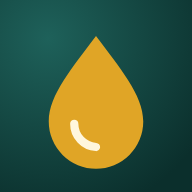
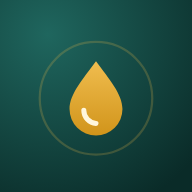
Nama aplikasi jadi Minyak Andre; ikon tetes minyak diperkecil

diff --git a/index.html b/index.html
@@ -5,10 +5,12 @@
 <meta name="viewport" content="width=device-width, initial-scale=1, viewport-fit=cover">
 <meta name="robots" content="noindex, nofollow">
 <meta name="theme-color" content="#0f3d3a">
-<title>Absensi & Gaji</title>
+<title>Minyak Andre</title>
 <link rel="manifest" href="manifest.json">
-<link rel="icon" href="ikon.svg" type="image/svg+xml">
-<link rel="apple-touch-icon" href="ikon-192.png">
+<link rel="icon" href="ikon.svg?v=2" type="image/svg+xml">
+<link rel="apple-touch-icon" href="ikon-192.png?v=2">
+<meta name="apple-mobile-web-app-title" content="Minyak Andre">
+<meta name="application-name" content="Minyak Andre">
 <link rel="preconnect" href="https://fonts.googleapis.com">
 <link rel="preconnect" href="https://fonts.gstatic.com" crossorigin>
 <link rel="stylesheet" href="https://fonts.googleapis.com/css2?family=Fraunces:opsz,wght@9..144,500;9..144,600&family=Plus+Jakarta+Sans:wght@400;500;600;700&display=swap">
@@ -223,7 +225,7 @@ function layarMasuk(pesan) {
   const pemilik = k === 'pemilik';
   akar.innerHTML = `<main class="masuk"><form class="masuk-kartu" id="fMasuk" autocomplete="off">
     <div class="tetes" aria-hidden="true"><svg width="30" height="30" viewBox="0 0 24 24"><path d="M12 2.5c3.2 4.3 6.5 8 6.5 11.7a6.5 6.5 0 0 1-13 0C5.5 10.5 8.8 6.8 12 2.5z" fill="#d59a1c"/><path d="M9 14.5a3.2 3.2 0 0 0 3 3.2" fill="none" stroke="#fff" stroke-width="1.6" stroke-linecap="round"/></svg></div>
-    <div class="label">Usaha Minyak</div><h1>Absensi & Gaji</h1>
+    <div class="label">Absensi & Gaji</div><h1>Minyak Andre</h1>
     <p>${pemilik ? 'Masuk sebagai pemilik untuk mengisi absensi dan gaji.' : 'Masuk untuk melihat absensi dan gajimu. Hanya kamu yang bisa melihat datamu.'}</p>
     ${pesan ? `<div class="pesan-salah" role="alert">${esc(pesan)}</div>` : ''}
     <label class="medan"><span>Kode ${pemilik ? '' : 'karyawan'}</span><input id="mKode" value="${esc(k)}" placeholder="namamu, mis. andika" autocapitalize="none" spellcheck="false" required></label>
@@ -260,8 +262,8 @@ function siapkanPasang() { const k = document.getElementById('kotakPasang');
     return; }
   if (k) k.hidden = false;
   document.querySelectorAll('[data-pasang]').forEach(b => { b.hidden = false; b.onclick = pasang; }); }
-async function bagikan() { const url = location.origin + location.pathname, teks = 'Aplikasi Absensi & Gaji. Buka lewat Chrome, tekan Download aplikasi, lalu masuk dengan nama dan PIN-mu: ' + url;
-  try { if (navigator.share) return await navigator.share({ title: 'Absensi & Gaji', text: teks }); } catch (e) { if (e.name === 'AbortError') return; }
+async function bagikan() { const url = location.origin + location.pathname, teks = 'Aplikasi Minyak Andre (absensi & gaji). Buka lewat Chrome, tekan Download aplikasi, lalu masuk dengan nama dan PIN-mu: ' + url;
+  try { if (navigator.share) return await navigator.share({ title: 'Minyak Andre', text: teks }); } catch (e) { if (e.name === 'AbortError') return; }
   try { await navigator.clipboard.writeText(teks); dialog('<h3>Link tersalin</h3><p class="catatan">Tempel di WhatsApp untuk dikirim ke karyawan.</p><div class="tombol-baris"><button class="pil" data-tutup>Oke</button></div>'); }
   catch { dialog('<h3>Link download</h3><p class="catatan" style="word-break:break-all">' + esc(url) + '</p><div class="tombol-baris"><button class="pil" data-tutup>Tutup</button></div>'); } }
 async function pasang() { if (undangPasang) { undangPasang.prompt(); const h = await undangPasang.userChoice; if (h.outcome === 'accepted') undangPasang = null; return; }
@@ -269,7 +271,7 @@ async function pasang() { if (undangPasang) { undangPasang.prompt(); const h = a
   dialog(`<h3>Download aplikasi</h3><p class="catatan" style="margin:0 0 6px">${ios ? 'Di iPhone, buka halaman ini lewat Safari.' : 'Buka halaman ini lewat Chrome.'}</p>
     <div class="baris-data"><div class="kiri">1. Tekan ${ios ? 'tombol Bagikan (kotak dengan panah ke atas)' : 'titik tiga di kanan atas'}</div></div>
     <div class="baris-data"><div class="kiri">2. Pilih <b>${ios ? 'Tambah ke Layar Utama' : 'Instal aplikasi'}</b>${ios ? '' : ' atau <b>Tambahkan ke layar utama</b>'}</div></div>
-    <div class="baris-data"><div class="kiri">3. Ikon tetes minyak emas bernama <b>Absensi</b> muncul di layar HP</div></div>
+    <div class="baris-data"><div class="kiri">3. Ikon tetes minyak emas bernama <b>Minyak Andre</b> muncul di layar HP</div></div>
     <div class="tombol-baris"><button class="pil" data-tutup>Mengerti</button></div>`); }
 
 /* ---------- Dialog kecil serbaguna ---------- */
@@ -294,7 +296,7 @@ function layarKaryawan(e, diubah) {
   const rinci = rincianHm(k);
   const tg = wks.reduce((a, w) => a + w.total, 0), tm = wks.reduce((a, w) => a + num(w.hm), 0), tb = wks.reduce((a, w) => a + num(w.hb), 0);
   const kapan = diubah ? new Date(diubah).toLocaleString('id-ID', { day: 'numeric', month: 'short', hour: '2-digit', minute: '2-digit' }) : '';
-  akar.innerHTML = `<header class="kepala"><div class="bungkus"><div class="baris"><div><div class="label">Usaha Minyak · Absensi & Gaji</div><h1>${esc(e.nama)}</h1>
+  akar.innerHTML = `<header class="kepala"><div class="bungkus"><div class="baris"><div><div class="label">Minyak Andre · Absensi & Gaji</div><h1>${esc(e.nama)}</h1>
       <p>Minggu ${esc(k.w)}${k.periode ? ' · ' + esc(k.periode) : ''}</p></div>
       <div style="display:flex;gap:6px;flex-wrap:wrap;justify-content:flex-end"><button class="pil emas kecil" data-pasang hidden>Download</button><button class="pil kaca kecil" id="bKeluar">Keluar</button></div></div></div></header>
   <main class="bungkus">
@@ -341,7 +343,7 @@ function status(t, c) { const s = $('#st'); if (s) { s.textContent = t; s.classN
 const semuaMinggu = () => [...new Set(Object.values(data).flatMap(e => (e.minggu || []).map(w => num(w.w)).filter(w => w > 0)))].sort((a, b) => a - b);
 
 function layarPemilik() {
-  akar.innerHTML = `<header class="kepala" style="padding-bottom:30px"><div class="bungkus"><div class="baris"><div><div class="label">Usaha Minyak · Panel Pemilik</div><h1>Absensi & Gaji</h1>
+  akar.innerHTML = `<header class="kepala" style="padding-bottom:30px"><div class="bungkus"><div class="baris"><div><div class="label">Minyak Andre · Panel Pemilik</div><h1>Absensi & Gaji</h1>
       <p>Isi gaji harian, potongan, dan hutang. Karyawan melihat datanya sendiri lewat PIN.</p></div>
       <div><button class="pil kaca kecil" id="bBeranda">← Beranda</button></div></div></div></header>
   <main class="bungkus"><nav class="tab-baris" id="tab" aria-label="Karyawan"></nav><div id="isi"></div>
@@ -459,7 +461,7 @@ async function buatPin(k) { const e = data[k];
   try { const r = await rpc('minyak_atur_pin', { p_token: sesi.baca().token, p_kode: k, p_pin: pin }); if (!r.ok) return status(r.pesan, 'salah'); } catch (err) { return status(err.message, 'salah'); }
   punyaPin[k] = true; gambar();
   const link = location.origin + location.pathname + '?k=' + encodeURIComponent(k);
-  const pesan = `Halo ${e.nama}, ini aplikasi untuk melihat absensi dan gajimu.\n\nBuka: ${link}\nPIN: ${pin}\n\nPIN hanya untukmu, jangan dibagikan. Bisa diganti dari dalam aplikasi.`;
+  const pesan = `Halo ${e.nama}, ini aplikasi Minyak Andre untuk melihat absensi dan gajimu.\n\nBuka: ${link}\nPIN: ${pin}\n\nPIN hanya untukmu, jangan dibagikan. Bisa diganti dari dalam aplikasi.`;
   dialog(`<h3>PIN ${esc(e.nama)}</h3><p class="catatan" style="margin:0">PIN ini hanya ditampilkan sekali. PIN lama (kalau ada) sudah tidak berlaku.</p><div class="pin-besar">${pin}</div>
     <div class="catatan" style="word-break:break-all">${esc(link)}</div>
     <div class="tombol-baris"><button class="pil halus" data-tutup>Tutup</button><button class="pil" id="bSalin">Salin pesan</button><a class="pil emas" style="text-decoration:none" target="_blank" rel="noopener" href="https://wa.me/?text=${encodeURIComponent(pesan)}">Kirim WhatsApp</a></div>`,
@@ -496,7 +498,7 @@ async function muatKeuangan() { if (keu) return keu;
   if (!r.ok) throw new Error(r.pesan); keu = r.nilai; keuDiubah = r.diubah; return keu; }
 
 function kepalaPemilik(judul, keterangan, kembali) {
-  return `<header class="kepala" style="padding-bottom:30px"><div class="bungkus"><div class="baris"><div><div class="label">Usaha Minyak · ${kembali ? 'Dashboard' : 'Pemilik'}</div><h1>${judul}</h1><p>${keterangan}</p></div>
+  return `<header class="kepala" style="padding-bottom:30px"><div class="bungkus"><div class="baris"><div><div class="label">Minyak Andre · ${kembali ? 'Dashboard' : 'Pemilik'}</div><h1>${judul}</h1><p>${keterangan}</p></div>
     <div style="display:flex;gap:6px;flex-wrap:wrap;justify-content:flex-end">${kembali ? '<button class="pil kaca kecil" id="bBeranda">← Beranda</button>' : '<button class="pil emas kecil" data-pasang hidden>Download</button><button class="pil kaca kecil" id="bSandi">Ganti sandi</button><button class="pil kaca kecil" id="bKeluar">Keluar</button>'}</div></div></div></header>`; }
 
 async function layarBeranda() {
@@ -580,7 +582,7 @@ function muatPdf() { return pustakaPdf ||= (async () => { const muat = src => ne
 const HIJAU = [15, 61, 58], EMAS = [213, 154, 28];
 async function dokumen(judul, sub) { const JsPDF = await muatPdf(); const doc = new JsPDF({ unit: 'mm', format: 'a4' });
   doc.setFillColor(...HIJAU); doc.rect(0, 0, 210, 30, 'F'); doc.setFillColor(...EMAS); doc.rect(0, 30, 210, 1.2, 'F');
-  doc.setTextColor(232, 181, 74); doc.setFontSize(8.5); doc.setFont('helvetica', 'bold'); doc.text('USAHA MINYAK', 14, 11);
+  doc.setTextColor(232, 181, 74); doc.setFontSize(8.5); doc.setFont('helvetica', 'bold'); doc.text('MINYAK ANDRE', 14, 11);
   doc.setTextColor(255, 255, 255); doc.setFontSize(17); doc.text(judul, 14, 19); doc.setFont('helvetica', 'normal'); doc.setFontSize(9.5); doc.setTextColor(207, 227, 222); doc.text(sub, 14, 25.5);
   doc.setTextColor(22, 48, 44); return doc; }
 const gayaTabel = { styles: { font: 'helvetica', fontSize: 9, cellPadding: 2.2, textColor: [22, 48, 44] }, headStyles: { fillColor: HIJAU, textColor: 255, fontStyle: 'bold' }, alternateRowStyles: { fillColor: [244, 248, 243] }, footStyles: { fillColor: [251, 240, 211], textColor: [22, 48, 44], fontStyle: 'bold' }, margin: { left: 14, right: 14 },

diff --git a/sw.js b/sw.js
@@ -1,6 +1,6 @@
 // Service worker sederhana: halaman selalu diambil dari jaringan dulu (supaya pembaruan langsung terasa),
 // baru jatuh ke simpanan kalau sedang tanpa internet. Panggilan ke database tidak pernah disimpan.
-const NAMA = 'absensi-v6';
+const NAMA = 'minyak-v7';
 self.addEventListener('install', e => { self.skipWaiting(); e.waitUntil(caches.open(NAMA).then(c => c.addAll(['./', 'manifest.json', 'ikon.svg']))); });
 self.addEventListener('activate', e => e.waitUntil(caches.keys().then(ks => Promise.all(ks.filter(k => k !== NAMA).map(k => caches.delete(k)))).then(() => self.clients.claim())));
 self.addEventListener('fetch', e => { const u = new URL(e.request.url);
